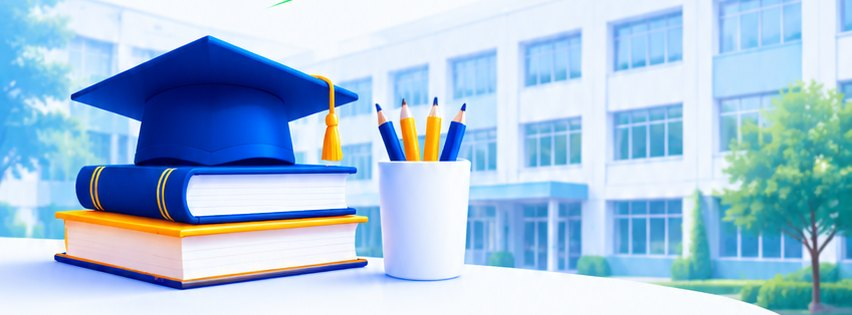
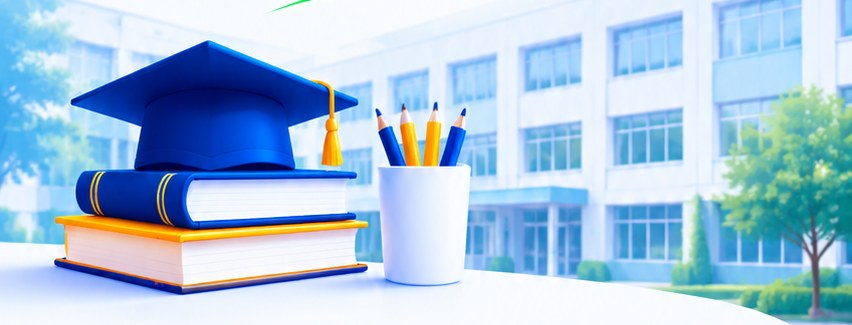
Accueil : page responsive fidèle à la maquette, plein écran sans défilement
Tailles proportionnelles à la maquette (hauteur et largeur), illustration
qui s'adapte, police Poppins hébergée dans l'application.

Claude-Session: https://claude.ai/code/session_015mWM4seinABXAPAxyoW6fH

diff --git a/templates/index.html b/templates/index.html
@@ -3,32 +3,105 @@
 <meta charset="utf-8"><meta name="viewport" content="width=device-width, initial-scale=1, viewport-fit=cover">
 <title>Scolaris · La scolarité, sans impayés</title>
 <meta name="description" content="Scolaris : gérez facilement les paiements scolaires de votre établissement.">
-<meta name="theme-color" content="#1840B8">
+<meta name="theme-color" content="#F2F6FF">
 <link rel="icon" href="{{ url_for('static', filename='img/icone.png') }}">
 <link rel="apple-touch-icon" href="{{ url_for('static', filename='img/icone-180.png') }}">
 <style>
-/* Ecran d'accueil : la maquette validee, sur un seul ecran (aucun defilement). */
-html,body{margin:0;height:100%;overflow:hidden;background:#EEF4FF}
-.ecran{position:fixed;inset:0;overflow:hidden;background:#EAF2FF}
-/* fond : la meme image, floutee, pour remplir les bords si l'ecran n'a pas exactement le format */
-.fond{position:absolute;inset:-30px;background:url("{{ url_for('static', filename='img/accueil-maquette.jpg') }}") center/cover no-repeat;filter:blur(18px)}
-/* la maquette entiere (852 x 1846), toujours visible en entier, centree */
-.maquette{position:absolute;left:50%;top:50%;transform:translate(-50%,-50%);aspect-ratio:852/1846;
-  width:min(100vw, calc(100vh * 852 / 1846 * 1.06));
-  background:url("{{ url_for('static', filename='img/accueil-maquette.jpg') }}") center/100% 100% no-repeat}
-@supports (height:100dvh){.maquette{width:min(100vw, calc(100dvh * 852 / 1846 * 1.06))}}
-@media (min-aspect-ratio:3/4){.fond{filter:blur(40px);opacity:.55}.ecran{background:#DCE7FF}}
-.zone{position:absolute;display:block;border-radius:99px;-webkit-tap-highlight-color:rgba(24,64,184,.15)}
-.zone:focus-visible{outline:3px solid #22C55E;outline-offset:2px}
-.connexion{left:5.8%;width:88.4%;top:63.2%;height:6.1%}
-.compte{left:5.8%;width:88.4%;top:70.4%;height:5.6%}
-.lu{position:absolute;width:1px;height:1px;overflow:hidden;clip:rect(0 0 0 0)}
+/* Ecran d'accueil (maquette validee) : plein ecran, jamais de defilement, proportions de la maquette.
+   u = 1/100 de la hauteur de la maquette ; u = la plus petite des echelles hauteur / largeur. */
+@font-face{font-family:Poppins;font-weight:500;font-display:swap;src:url("{{ url_for('static', filename='fonts/poppins-500.woff2') }}") format("woff2")}
+@font-face{font-family:Poppins;font-weight:600;font-display:swap;src:url("{{ url_for('static', filename='fonts/poppins-600.woff2') }}") format("woff2")}
+@font-face{font-family:Poppins;font-weight:700;font-display:swap;src:url("{{ url_for('static', filename='fonts/poppins-700.woff2') }}") format("woff2")}
+@font-face{font-family:Poppins;font-weight:800;font-display:swap;src:url("{{ url_for('static', filename='fonts/poppins-800.woff2') }}") format("woff2")}
+@font-face{font-family:Poppins;font-weight:600;font-style:italic;font-display:swap;src:url("{{ url_for('static', filename='fonts/poppins-600i.woff2') }}") format("woff2")}
+*{box-sizing:border-box;margin:0}
+html,body{height:100%;overflow:hidden}
+body{font-family:Poppins,system-ui,-apple-system,"Segoe UI",Roboto,sans-serif;color:#0B1F66;
+  background:radial-gradient(130% 75% at 50% 38%,#FFFFFF 0%,#F2F6FF 55%,#E4ECFF 100%)}
+.ecran{--u:min(1vh, 2.167vw);position:relative;height:100vh;display:flex;flex-direction:column;align-items:center;overflow:hidden}
+@supports (height:100dvh){.ecran{--u:min(1dvh, 2.167vw);height:100dvh}}
+/* decors */
+.deco-hg{position:absolute;left:0;top:0;width:calc(var(--u) * 26);max-width:50vw;pointer-events:none}
+.deco-hd{position:absolute;right:calc(var(--u) * -7);top:calc(var(--u) * 9);width:calc(var(--u) * 17);height:calc(var(--u) * 17);border-radius:50%;
+  background:radial-gradient(circle at 35% 35%,#EAF2FF,#CFE0FF);opacity:.75;pointer-events:none}
+.deco-hd2{position:absolute;right:calc(var(--u) * -5);top:calc(var(--u) * 24);width:calc(var(--u) * 11);height:calc(var(--u) * 11);border-radius:50%;
+  background:#DCE8FF;opacity:.6;pointer-events:none}
+/* haut */
+.icone{position:relative;flex:none;margin-top:calc(var(--u) * 8);width:calc(var(--u) * 15.2);height:calc(var(--u) * 15.2);
+  filter:drop-shadow(0 calc(var(--u) * 1) calc(var(--u) * 1.6) rgba(11,42,111,.32))}
+.mot{position:relative;flex:none;font-weight:800;font-size:calc(var(--u) * 7.4);letter-spacing:-.02em;line-height:1.05;margin-top:calc(var(--u) * .9)}
+.mot .i{position:relative;display:inline-block}
+.mot .i b{position:absolute;left:50%;top:.02em;width:.21em;height:.21em;border-radius:50%;background:#22C55E;transform:translateX(-50%)}
+.slogan{position:relative;flex:none;font-weight:700;font-size:calc(var(--u) * 2.2);margin-top:calc(var(--u) * .2);z-index:2}
+.trait{position:relative;flex:none;width:calc(var(--u) * 19);height:calc(var(--u) * 1.6);margin-top:calc(var(--u) * .4);z-index:2}
+/* illustration : prend toute la place qui reste */
+.illu{position:relative;flex:1 1 0;min-height:calc(var(--u) * 9);width:min(100%, calc(var(--u) * 75));margin-top:calc(var(--u) * -1.2);
+  background:url("{{ url_for('static', filename='img/accueil.jpg') }}") center 62%/cover no-repeat;
+  -webkit-mask-image:linear-gradient(180deg,transparent 0,#000 18%,#000 80%,transparent 100%);
+  mask-image:linear-gradient(180deg,transparent 0,#000 18%,#000 80%,transparent 100%)}
+/* bas */
+.corps{position:relative;flex:none;width:100%;max-width:calc(var(--u) * 46.2);padding:0 calc(var(--u) * 2.7);text-align:center}
+h1{font-weight:700;font-size:calc(var(--u) * 2.95);line-height:1.2;letter-spacing:-.01em;white-space:nowrap}
+.sous{color:#2E3A5C;font-weight:500;font-size:calc(var(--u) * 1.95);line-height:1.35;margin-top:calc(var(--u) * .7)}
+.btn{display:flex;align-items:center;justify-content:center;gap:calc(var(--u) * 1.6);width:100%;
+  height:calc(var(--u) * 6);border-radius:999px;font-weight:600;font-size:calc(var(--u) * 2.1);text-decoration:none;
+  -webkit-tap-highlight-color:transparent;transition:transform .15s,filter .15s}
+.btn:active{transform:scale(.98)}
+.btn:hover{filter:brightness(1.06)}
+.btn svg{width:calc(var(--u) * 2.6);height:calc(var(--u) * 2.6);flex:none}
+.btn.plein{margin-top:calc(var(--u) * 2.2);color:#fff;background:linear-gradient(180deg,#2A5CF0 0%,#0D2FB0 100%);
+  box-shadow:0 calc(var(--u) * .9) calc(var(--u) * 1.8) calc(var(--u) * -.6) rgba(10,47,168,.5)}
+.btn.vide{margin-top:calc(var(--u) * 1.3);height:calc(var(--u) * 5.6);color:#1238C4;background:#fff;border:max(1.5px, calc(var(--u) * .2)) solid #1F4FE0}
+.atouts{display:grid;grid-template-columns:repeat(3,1fr);margin-top:calc(var(--u) * 2)}
+.atouts div{display:flex;flex-direction:column;align-items:center;gap:calc(var(--u) * .7);font-weight:600;
+  font-size:calc(var(--u) * 1.6);line-height:1.25;color:#0B2A8A;border-left:1px solid #C5D3EE}
+.atouts div:first-child{border-left:0}
+.atouts svg{width:calc(var(--u) * 3.8);height:calc(var(--u) * 3.8)}
+/* vague du bas */
+.pied{position:relative;flex:none;width:100%;margin-top:calc(var(--u) * 1.4);height:calc(var(--u) * 11.6)}
+.pied svg{position:absolute;inset:0;width:100%;height:100%}
+.pied p{position:absolute;left:0;right:0;bottom:calc(var(--u) * 2.3);text-align:center;color:#fff;font-style:italic;
+  font-weight:600;font-size:calc(var(--u) * 1.75);line-height:1.35}
+/* ordinateur / tablette large : l'illustration se fond aussi sur les cotes */
+@media (min-aspect-ratio:3/4){.illu{-webkit-mask-image:radial-gradient(closest-side,#000 55%,transparent 100%);mask-image:radial-gradient(closest-side,#000 55%,transparent 100%)}}
 </style></head><body>
 <main class="ecran">
- <div class="fond"></div>
- <div class="maquette" role="img" aria-label="Scolaris, la scolarité sans impayés. Bienvenue sur Scolaris ! Gérez facilement les paiements scolaires de votre établissement.">
-  <a class="zone connexion" href="{{ url_for('connexion') }}"><span class="lu">Se connecter</span></a>
-  <a class="zone compte" href="{{ url_for('inscription') }}"><span class="lu">Créer un compte</span></a>
+ <svg class="deco-hg" viewBox="0 0 400 430" aria-hidden="true">
+  <defs><linearGradient id="gb" x1="0" y1="0" x2="1" y2="1"><stop offset="0" stop-color="#0A2E9E"/><stop offset=".6" stop-color="#1450E8"/><stop offset="1" stop-color="#2F7BFF"/></linearGradient>
+  <linearGradient id="gc" x1="0" y1="0" x2="1" y2="0"><stop offset="0" stop-color="#5AA2FF"/><stop offset="1" stop-color="#A9D0FF" stop-opacity=".2"/></linearGradient></defs>
+  <path d="M0 0H360C300 50 220 80 150 140C95 188 50 255 0 320Z" fill="url(#gb)"/>
+  <path d="M360 0H400C330 60 250 100 180 160C115 215 60 300 0 372V320C50 255 95 188 150 140C220 80 300 50 360 0Z" fill="url(#gc)"/>
+  <path d="M0 338C48 282 92 222 150 175C108 222 62 296 0 380Z" fill="#22C55E"/>
+ </svg>
+ <div class="deco-hd"></div><div class="deco-hd2"></div>
+
+ <img class="icone" src="{{ url_for('static', filename='img/icone.png') }}" alt="">
+ <div class="mot">Scolar<span class="i">ı<b></b></span>s</div>
+ <div class="slogan">La scolarité, sans impayés</div>
+ <svg class="trait" viewBox="0 0 360 24" preserveAspectRatio="none" aria-hidden="true"><path d="M4 20C110 2 250 2 356 14C250 8 120 9 4 20Z" fill="#22C55E"/></svg>
+
+ <div class="illu" role="img" aria-label="Livres, toque de diplômé et école"></div>
+
+ <div class="corps">
+  <h1>Bienvenue sur Scolaris !</h1>
+  <p class="sous">Gérez facilement les paiements scolaires<br>de votre établissement.</p>
+  <a class="btn plein" href="{{ url_for('connexion') }}"><svg viewBox="0 0 24 24" fill="#fff"><circle cx="12" cy="7.5" r="4.5"/><path d="M3 21.5c.8-4.8 4.4-7.5 9-7.5s8.2 2.7 9 7.5z"/></svg>Se connecter</a>
+  <a class="btn vide" href="{{ url_for('inscription') }}"><svg viewBox="0 0 24 24"><circle cx="12" cy="12" r="11.5" fill="#1840B8"/><path d="M12 6.5v11M6.5 12h11" stroke="#fff" stroke-width="2.6" stroke-linecap="round"/></svg>Créer un compte</a>
+  <div class="atouts">
+   <div><svg viewBox="0 0 24 24"><defs><linearGradient id="g1" x1="0" y1="0" x2="0" y2="1"><stop offset="0" stop-color="#3B82F6"/><stop offset="1" stop-color="#1D3FB8"/></linearGradient></defs><path d="M12 1.5l8.5 3.2v6.4c0 5.4-3.6 9.9-8.5 11.4C7.1 21 3.5 16.5 3.5 11.1V4.7z" fill="url(#g1)"/><path d="M7.8 12.2l3 3 5.6-6.2" fill="none" stroke="#fff" stroke-width="2.2" stroke-linecap="round" stroke-linejoin="round"/></svg>Paiements<br>sécurisés</div>
+   <div><svg viewBox="0 0 24 24"><path d="M5.5 10a6.5 6.5 0 0 1 13 0c0 6 2.8 7.3 2.8 7.3H2.7S5.5 16 5.5 10z" fill="url(#g1)"/><path d="M9.5 19.5a2.5 2.5 0 0 0 5 0z" fill="#1D3FB8"/><circle cx="12" cy="3" r="1.4" fill="#1D3FB8"/></svg>Rappels<br>automatiques</div>
+   <div><svg viewBox="0 0 24 24"><rect x="3" y="13" width="4.2" height="8.5" rx="1" fill="url(#g1)"/><rect x="9.9" y="9.5" width="4.2" height="12" rx="1" fill="url(#g1)"/><rect x="16.8" y="6" width="4.2" height="15.5" rx="1" fill="url(#g1)"/><path d="M3 10.5l6-4.2 4 2.6 6.4-5.6" fill="none" stroke="#1D3FB8" stroke-width="2" stroke-linecap="round" stroke-linejoin="round"/><path d="M16 3h4v4" fill="none" stroke="#1D3FB8" stroke-width="2" stroke-linecap="round" stroke-linejoin="round"/></svg>Suivi en<br>temps réel</div>
+  </div>
+ </div>
+
+ <div class="pied">
+  <svg viewBox="0 0 400 120" preserveAspectRatio="none" aria-hidden="true">
+   <defs><linearGradient id="gp" x1="0" y1="0" x2="1" y2="1"><stop offset="0" stop-color="#1D5BFF"/><stop offset=".55" stop-color="#1238C4"/><stop offset="1" stop-color="#0A2178"/></linearGradient></defs>
+   <path d="M0 34C70 6 150 2 220 18C290 34 340 30 400 8V120H0Z" fill="#8CB7FF" opacity=".45"/>
+   <path d="M0 44C80 16 160 14 230 30C300 46 350 40 400 20V120H0Z" fill="url(#gp)"/>
+   <path d="M150 112C185 104 215 104 250 112" stroke="#9CC4FF" stroke-width="2" fill="none" opacity=".8"/>
+  </svg>
+  <p>Scolaris, une école connectée<br>pour une éducation sereine.</p>
  </div>
 </main>
 </body></html>
